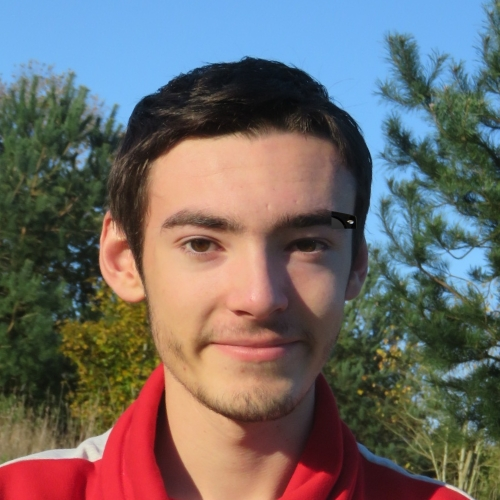
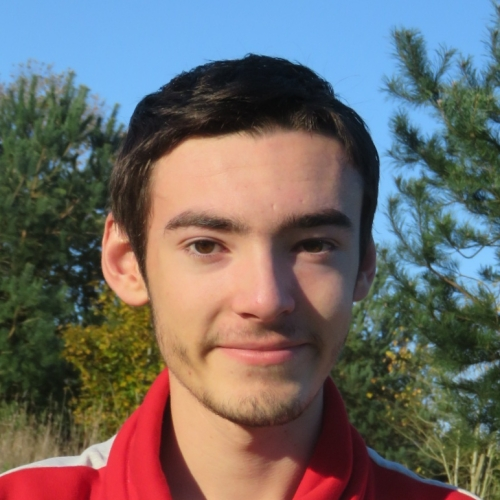
Add team images on "opinion", fix Benjamin's face

diff --git a/articles/opinion.html b/articles/opinion.html
@@ -5,85 +5,145 @@
     Free for personal and commercial use under the CCA 3.0 license (html5up.net/license)
 -->
 <html>
+
     <body>
         <div class="text-center">
             <h2 class="section-heading text-uppercase">Nos opinions</h2>
             <h3 class="section-subheading text-muted">Qu'avons nous appris et retenu sur ce sujet ?</h3>
         </div>
         <br />
-        <h4 class="major">L'opinion d'Etienne</h4>
+        <div class="opinionImage">
+            <h4 class="major">L'opinion d'Etienne</h4>
+            <img class="rounded-circle" src="images/1.jpg" alt="Etienne Allain" />
+        </div>
         <br />
-        <h4 class="major">L'opinion d'Axel</h4>
+        <div class="opinionImage">
+            <h4 class="major">L'opinion d'Axel</h4>
+            <img class="rounded-circle" src="images/2.jpg" alt="Axel Dupraz" />
+        </div>
         <p>
-            Ce sujet était motivant pour plusieurs raisons à mon sens. Le sujet des armes est en général quelque chose sur lequel nous avons plein de préjugés, qui peuvent s'avérer réels. 
-            Cependant, je me suis vite rendu compte que je ne connaissais rien en réalité et que c’est un milieu très surprenant. En effet, on le voit souvent comme un milieu criminel à l’éthique immoral. 
-            Une partie légale et artistique subsiste et elle n’est pas à oublier. Notre sujet était donc un exercice parfait pour entraîner notre capacité à être impartial et à traiter d’un sujet complexe d’un point de vue éthique, mais aussi complexe d’un point de vue géopolitique.
+            Ce sujet était motivant pour plusieurs raisons à mon sens. Le sujet des armes est en général quelque chose sur
+            lequel nous avons plein de préjugés, qui peuvent s'avérer réels.
+            Cependant, je me suis vite rendu compte que je ne connaissais rien en réalité et que c’est un milieu très
+            surprenant. En effet, on le voit souvent comme un milieu criminel à l’éthique immoral.
+            Une partie légale et artistique subsiste et elle n’est pas à oublier. Notre sujet était donc un exercice parfait
+            pour entraîner notre capacité à être impartial et à traiter d’un sujet complexe d’un point de vue éthique, mais
+            aussi complexe d’un point de vue géopolitique.
         </p>
         <p>
-            J’ai découvert un monde aux dimensions multiples ne se limitant pas au simple, “la vente d'armes, c’est mal”, mais allant chercher des arguments sociaux, politiques (en particulier en Amérique) et économiques (partout dans le monde).
+            J’ai découvert un monde aux dimensions multiples ne se limitant pas au simple, “la vente d'armes, c’est mal”,
+            mais allant chercher des arguments sociaux, politiques (en particulier en Amérique) et économiques (partout dans
+            le monde).
         </p>
         <p>
-            Je me suis surpris à m'intéresser bien plus que je ne l'aurais cru et à me renseigner non pas pour rendre un travail, mais surtout pour comprendre et apprendre le sujet, en particulier en France ou la chasse fait partie du patrimoine de nombreuses villes. 
-            J’ai apprécié comprendre cette importance que les armes ont prise dans le monde entier et j’ai été choqué par les problèmes que cause leur faciliter de procuration. 
-            J’ai aimé comparer les avis des différents pays sur le sujet et débattre des conséquences qu'entraînent les différentes lois autour des armes. J’ai regardé des documentaires, lu des articles qu’en temps normal, je n'aurais même pas remarqué.
+            Je me suis surpris à m'intéresser bien plus que je ne l'aurais cru et à me renseigner non pas pour rendre un
+            travail, mais surtout pour comprendre et apprendre le sujet, en particulier en France ou la chasse fait partie
+            du patrimoine de nombreuses villes.
+            J’ai apprécié comprendre cette importance que les armes ont prise dans le monde entier et j’ai été choqué par
+            les problèmes que cause leur faciliter de procuration.
+            J’ai aimé comparer les avis des différents pays sur le sujet et débattre des conséquences qu'entraînent les
+            différentes lois autour des armes. J’ai regardé des documentaires, lu des articles qu’en temps normal, je
+            n'aurais même pas remarqué.
         </p>
         <p>
-            Cela m’a permis de me forger une opinion solide sur le sujet, et très certainement une connaissance suffisante pour débattre avec bon nombre de personnes sur la question. 
-            Je pense que les armes ne sont pas des marchandises comme les autres dans la plupart des cas. Elles restent des outils créés dans le but de blesser d’autres Hommes, sauf lorsqu’il s’agit de collection ou d’outils pour la chasse. 
-            C’est d’ailleurs dans cette vision des choses qu’en France, un système de classification des armes très précis a été mis en place. 
-            Le trafic illégal d’arme est une catastrophe, et pour la sécurité globale de notre monde et pour les enjeux économiques, empêchant un contrôle précis sur les échanges d’armes. C’est très facilement démontrable par la recherche d’informations sur ces commerces illégaux : on ne trouve pas ou peu d’informations (à contrario du commerce illégal de cannabis par exemple, qui reste assez bien renseigné).
-            Pour moi, on peut donc très largement condamner le commerce d'armes dans tous les autres cas que ceux cités précédemment.
+            Cela m’a permis de me forger une opinion solide sur le sujet, et très certainement une connaissance suffisante
+            pour débattre avec bon nombre de personnes sur la question.
+            Je pense que les armes ne sont pas des marchandises comme les autres dans la plupart des cas. Elles restent des
+            outils créés dans le but de blesser d’autres Hommes, sauf lorsqu’il s’agit de collection ou d’outils pour la
+            chasse.
+            C’est d’ailleurs dans cette vision des choses qu’en France, un système de classification des armes très précis a
+            été mis en place.
+            Le trafic illégal d’arme est une catastrophe, et pour la sécurité globale de notre monde et pour les enjeux
+            économiques, empêchant un contrôle précis sur les échanges d’armes. C’est très facilement démontrable par la
+            recherche d’informations sur ces commerces illégaux : on ne trouve pas ou peu d’informations (à contrario du
+            commerce illégal de cannabis par exemple, qui reste assez bien renseigné).
+            Pour moi, on peut donc très largement condamner le commerce d'armes dans tous les autres cas que ceux cités
+            précédemment.
         </p>
         <p>
-            Même dans un cadre militaire, cela reste très peu moral et génère des millions d’euros sur le dos d’un commerce créé dans l’unique but de tuer ou menacé des êtres humains.
+            Même dans un cadre militaire, cela reste très peu moral et génère des millions d’euros sur le dos d’un commerce
+            créé dans l’unique but de tuer ou menacé des êtres humains.
         </p>
         <p>
-            Malgré cette vision plutôt pessimiste, je garde un bon souvenir de ce projet, j’ai appris bien des choses et apprécié travailler avec mon équipe qui était très efficace, rigoureuse et ordonnée, tout en conservant un esprit agréable et une ouverture d’esprit dans les débats qui ont eu lieu. 
+            Malgré cette vision plutôt pessimiste, je garde un bon souvenir de ce projet, j’ai appris bien des choses et
+            apprécié travailler avec mon équipe qui était très efficace, rigoureuse et ordonnée, tout en conservant un
+            esprit agréable et une ouverture d’esprit dans les débats qui ont eu lieu.
             Je les remercie et espère pouvoir collaborer de nouveau avec eux à l'avenir.
         </p>
-        <br />
-        <h4 class="major">L'opinion de Benjamin</h4>
+        <div class="opinionImage">
+            <h4 class="major">L'opinion de Benjamin</h4>
+            <img class="rounded-circle" src="images/benjamin.jpg" alt="Benjamin Giraud-Renard" />
+        </div>
         <p>
-            Nous sommes entourés d’armes à feu, elles nous protègent, elles sont au cœur des conflits à travers le monde et surtout au cœur d’un business totalement opaque aux yeux de la société et de moi-même. 
-            C’est pour cela que j’ai voulu travailler sur ce sujet, ouvrant de nombreux sujets de controverses que ce soit du côté éthique que du côté économique. 
-            Ce sujet nous a, et m’a permis d’apprendre le fonctionnement de cette industrie, son importance économique et surtout ses contradictions morales à l’aide de Mme Poiret, journaliste avec qui nous avons pu converser.
+            Nous sommes entourés d’armes à feu, elles nous protègent, elles sont au cœur des conflits à travers le monde et
+            surtout au cœur d’un business totalement opaque aux yeux de la société et de moi-même.
+            C’est pour cela que j’ai voulu travailler sur ce sujet, ouvrant de nombreux sujets de controverses que ce soit
+            du côté éthique que du côté économique.
+            Ce sujet nous a, et m’a permis d’apprendre le fonctionnement de cette industrie, son importance économique et
+            surtout ses contradictions morales à l’aide de Mme Poiret, journaliste avec qui nous avons pu converser.
             Il s’agit pour moi d’un sujet trop peu connu et médiatisé pourtant très intéressant.
         </p>
         <p>
-            D’un point de vue purement lexical, une marchandise caractérise un objet qui se vend et qui s’achète. En enlevant le côté éthique, alors oui une arme à feu rentre dans ces cases. 
-            Cependant, les régulations, les lois nationales et mondiales en font des objets “spéciaux”, loin d’une marchandise “comme une autre”.
-            Donc selon mon avis, une arme est une marchandise mais une marchandise spéciale, devant être régulée de manière très précise.
+            D’un point de vue purement lexical, une marchandise caractérise un objet qui se vend et qui s’achète. En
+            enlevant le côté éthique, alors oui une arme à feu rentre dans ces cases.
+            Cependant, les régulations, les lois nationales et mondiales en font des objets “spéciaux”, loin d’une
+            marchandise “comme une autre”.
+            Donc selon mon avis, une arme est une marchandise mais une marchandise spéciale, devant être régulée de manière
+            très précise.
         </p>
         <p>
-            Comme nous avons pu le montrer durant cette étude, le secteur de l’armement représente d'énormes quantités d’argent et d’emploi. Macabre, nous avons besoin de ce secteur pour assurer notre défense et l’équilibre mondial, un monde sans armes n’est selon moi pas possible. 
-            Cependant la vente devrait être davantage contrôlée afin d’éviter des clients comme l’Egypte ou l’Arabie Saoudite et ainsi tomber dans le profit avant les vies humaines.
+            Comme nous avons pu le montrer durant cette étude, le secteur de l’armement représente d'énormes quantités
+            d’argent et d’emploi. Macabre, nous avons besoin de ce secteur pour assurer notre défense et l’équilibre
+            mondial, un monde sans armes n’est selon moi pas possible.
+            Cependant la vente devrait être davantage contrôlée afin d’éviter des clients comme l’Egypte ou l’Arabie
+            Saoudite et ainsi tomber dans le profit avant les vies humaines.
         </p>
         <p>
-            Au final ce sujet s’est avéré très intéressant, je ne suis pas en mesure de trancher sur le débat mais il s’agit certainement d’un marché actuellement trop caché pour les citoyens, qui doivent se faire leur propre avis.
-            Ce qui est sûr, c’est que les controverses entourant la vente d'armes ne sont pas près de disparaître, et il est important de continuer de mettre en lumière ces questions éthiques et économiques pour peut-être trouver un équilibre acceptable entre la défense et le profit.
+            Au final ce sujet s’est avéré très intéressant, je ne suis pas en mesure de trancher sur le débat mais il s’agit
+            certainement d’un marché actuellement trop caché pour les citoyens, qui doivent se faire leur propre avis.
+            Ce qui est sûr, c’est que les controverses entourant la vente d'armes ne sont pas près de disparaître, et il est
+            important de continuer de mettre en lumière ces questions éthiques et économiques pour peut-être trouver un
+            équilibre acceptable entre la défense et le profit.
         </p>
-        <br />
-        <h4 class="major">L'opinion de Julie</h4>
+        <div class="opinionImage">
+            <h4 class="major">L'opinion de Julie</h4>
+            <img class="rounded-circle" src="images/julie.jpg" alt="Julie Pessey" />
+        </div>
         <p>
-            Nous avons voulu travailler sur ce sujet car nous souhaitions en apprendre plus. Lorsque l’on parle des armes, on aborde souvent le côté non-éthique de celui-ci. Notre sujet, “Les armes, une marchandise comme une autre ? ”, nous a poussé à nous pencher sur le côté économique, les emplois générés ainsi que les trafics illégaux d’armes dans le monde. 
-            Ce projet nous a d’une part, permis d’en apprendre plus mais aussi de nous questionner, d’avoir de nouvelles informations sur ce marché et donc de faire évoluer, ou de renforcer nos points de vue. 
-        </p>
-        <p>
-            D’un point de vue personnel, ce projet m’a permis de découvrir un domaine qui m’était plutôt inconnu. Mes connaissances sur ce sujet se limitaient au fait que la vente d’armes était problématique éthiquement parlant, quels pays sont de gros exportateurs, … 
-            Nous avons commencé par effectuer de nombreuses recherches afin d’avoir un aperçu global du domaine. 
-        </p>
-        <p>
-            Je me suis intéressée aux acteurs liés au secteur de l’armement. Cette partie m’a appris que le secteur de la Défense en France est très important. Il représente le 2ème budget de l’Etat, et le budget consacré à ce secteur est en constante augmentation. 
-            Il s’élevait à 41 milliards d’euros en 2022. Il faut aussi prendre en compte tout le secteur privé, dont le chiffre d'affaires s’élève également à plusieurs milliards d'euros par an. 
-        </p>
-        <p>
-            Pour revenir aux armes en tant que marchandises, il est compliqué, à notre niveau, de trouver une réponse simple sur leur statut. 
-            On pourrait se dire que, comme d’autres marchandises :  il existe une industrie, un marché, des clients, de la demande. Ces arguments pourraient permettre de dire que les armes sont des marchandises. Cependant, la réglementation autour des armes et leur dangerosité ne permettent pas de dire que les armes sont des marchandises comme des produits alimentaires ou électroménagers. 
-            Je considère donc les armes comme des marchandises mais elles ne sont en aucun cas des marchandises “comme les autres”. 
+            Nous avons voulu travailler sur ce sujet car nous souhaitions en apprendre plus. Lorsque l’on parle des armes,
+            on aborde souvent le côté non-éthique de celui-ci. Notre sujet, “Les armes, une marchandise comme une autre ? ”,
+            nous a poussé à nous pencher sur le côté économique, les emplois générés ainsi que les trafics illégaux d’armes
+            dans le monde.
+            Ce projet nous a d’une part, permis d’en apprendre plus mais aussi de nous questionner, d’avoir de nouvelles
+            informations sur ce marché et donc de faire évoluer, ou de renforcer nos points de vue.
         </p>
         <p>
-            Pour conclure, j’ai pu apprendre énormément sur le marché de l’armement. J’ai pu élargir ma vision et prendre en compte le marché, les emplois que cela créer. 
-            J’ai apprécié travailler sur ce projet avec mon équipe qui a été très investie et intéressée par cette question. 
+            D’un point de vue personnel, ce projet m’a permis de découvrir un domaine qui m’était plutôt inconnu. Mes
+            connaissances sur ce sujet se limitaient au fait que la vente d’armes était problématique éthiquement parlant,
+            quels pays sont de gros exportateurs, …
+            Nous avons commencé par effectuer de nombreuses recherches afin d’avoir un aperçu global du domaine.
+        </p>
+        <p>
+            Je me suis intéressée aux acteurs liés au secteur de l’armement. Cette partie m’a appris que le secteur de la
+            Défense en France est très important. Il représente le 2ème budget de l’Etat, et le budget consacré à ce secteur
+            est en constante augmentation.
+            Il s’élevait à 41 milliards d’euros en 2022. Il faut aussi prendre en compte tout le secteur privé, dont le
+            chiffre d'affaires s’élève également à plusieurs milliards d'euros par an.
+        </p>
+        <p>
+            Pour revenir aux armes en tant que marchandises, il est compliqué, à notre niveau, de trouver une réponse simple
+            sur leur statut.
+            On pourrait se dire que, comme d’autres marchandises : il existe une industrie, un marché, des clients, de la
+            demande. Ces arguments pourraient permettre de dire que les armes sont des marchandises. Cependant, la
+            réglementation autour des armes et leur dangerosité ne permettent pas de dire que les armes sont des
+            marchandises comme des produits alimentaires ou électroménagers.
+            Je considère donc les armes comme des marchandises mais elles ne sont en aucun cas des marchandises “comme les
+            autres”.
+        </p>
+        <p>
+            Pour conclure, j’ai pu apprendre énormément sur le marché de l’armement. J’ai pu élargir ma vision et prendre en
+            compte le marché, les emplois que cela créer.
+            J’ai apprécié travailler sur ce projet avec mon équipe qui a été très investie et intéressée par cette question.
         </p>
         <ul class="actions">
             <li>Date : Novembre 2022</li>
@@ -94,4 +154,5 @@
             <li><a href="#" class="button">Sources</a></li>
         </ul>
     </body>
+
 </html>

diff --git a/assets/css/main.css b/assets/css/main.css
@@ -651,6 +651,19 @@ input, select, textarea {
 	border-radius: 50% !important;
   }
 
+  .opinionImage {
+	  display: flex;
+	  align-items: center;
+  }
+
+  .opinionImage img {
+		width: 8rem;
+		height: 8rem;
+		border: 0.5rem solid rgba(0, 0, 0, 0.1);
+		margin-left: auto;
+		margin-bottom: 2%;
+  }
+
   .mr-auto,
 .mx-auto {
   margin-right: auto !important;
